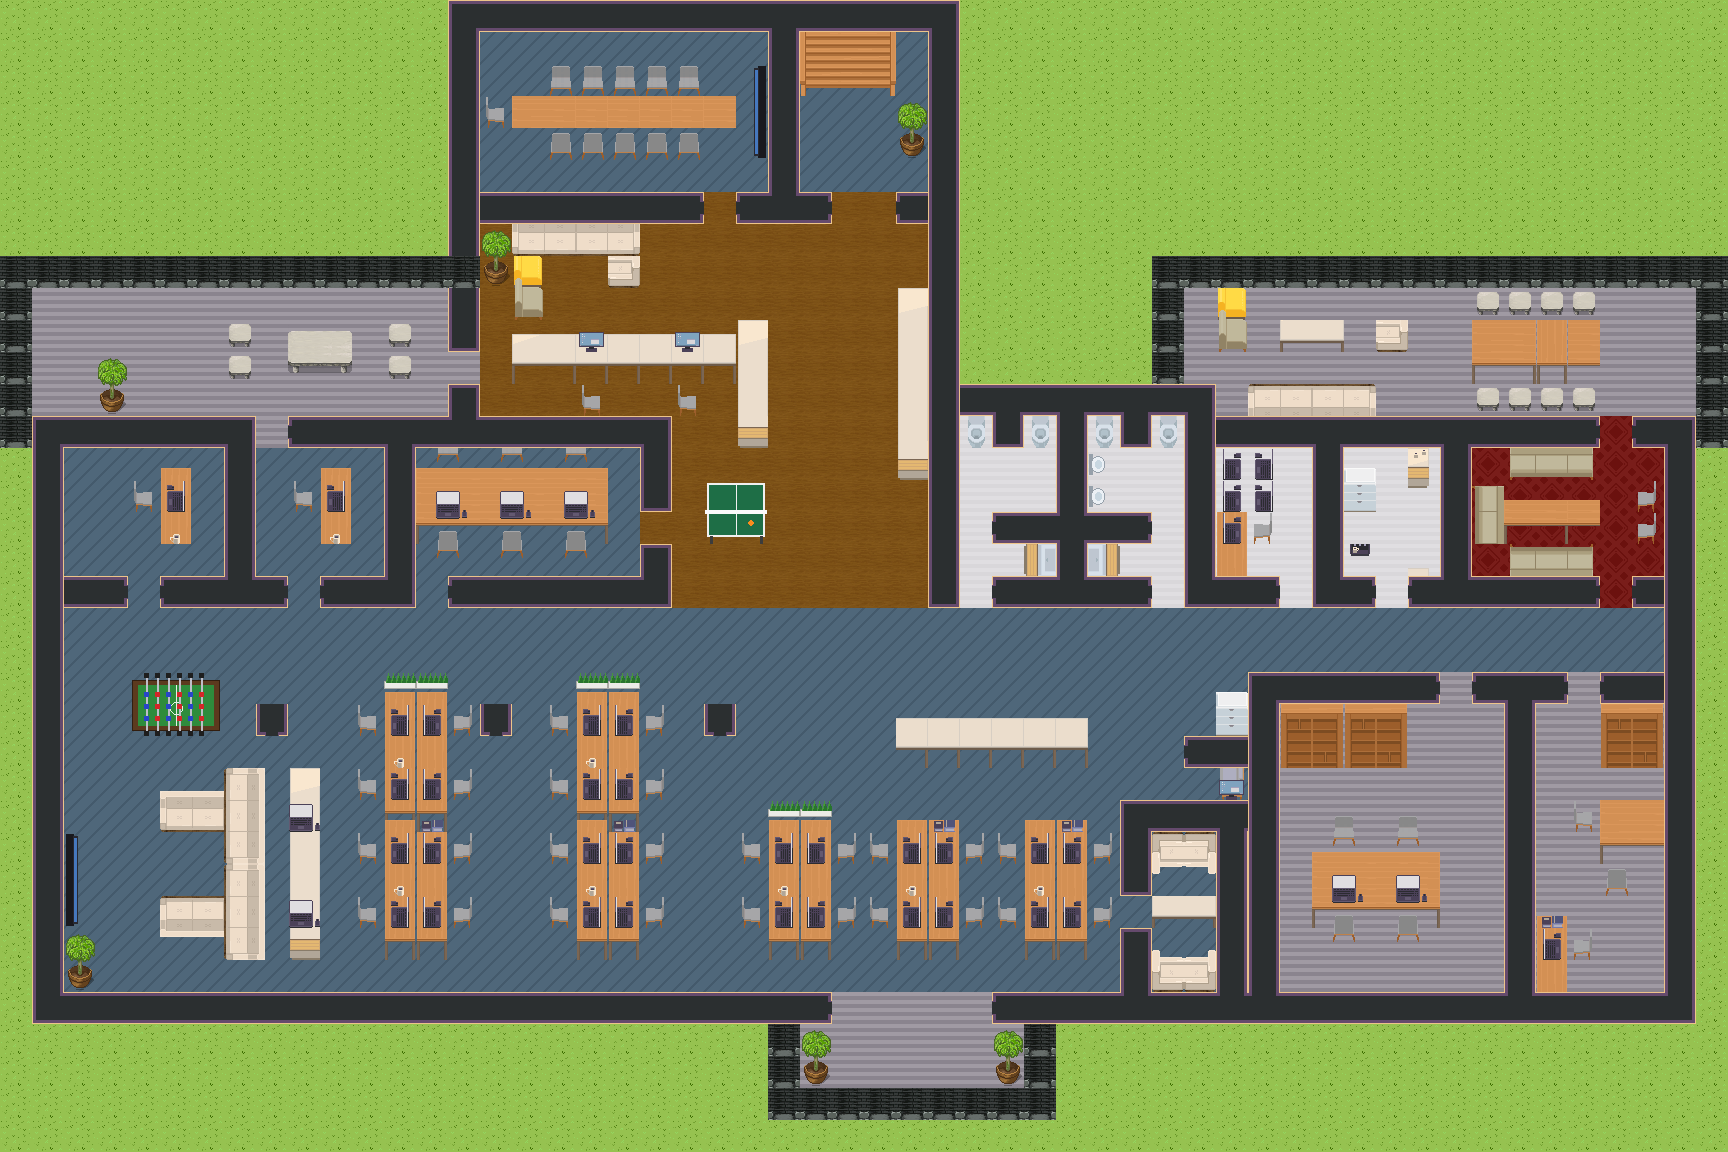
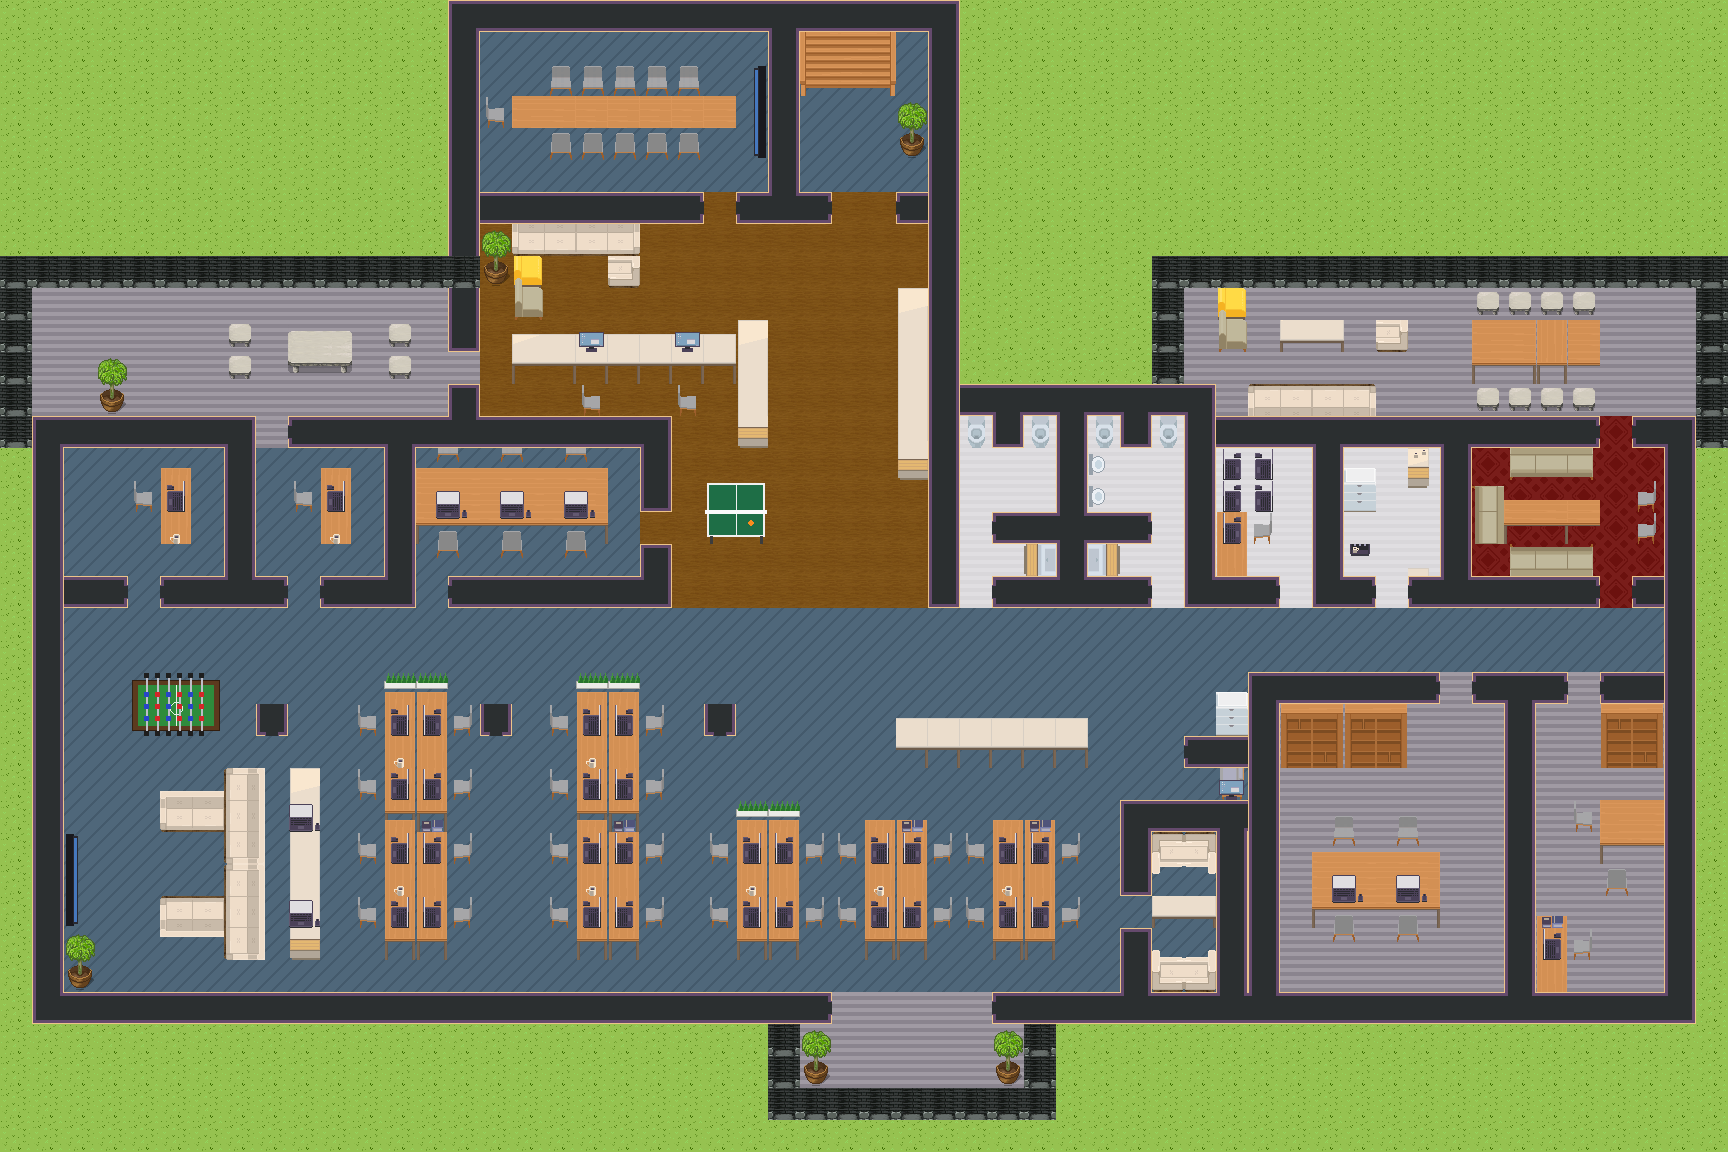
Shift right desk clusters left for space next to the small lounge

Changed region(s): [[0.4062, 0.6875, 0.6562, 0.8438]]

diff --git a/build.py b/build.py
@@ -239,9 +239,9 @@ put('furniture2', 51, 15, 1495); put('furniture2', 51, 16, 1495)
 # open space: planters + desk clusters as in Gather
 stamp(*DESK4, 11, 21); stamp(10, 4, 4, 4, 11, 26); stamp_onto(10, 3, 4, 11, 25)   # two blocks flush
 stamp(*DESK4, 17, 21); stamp(10, 4, 4, 4, 17, 26); stamp_onto(10, 3, 4, 17, 25)   # two blocks flush
-stamp(*DESK4, 23, 25)
-stamp(*DESK4, 27, 25); stamp(*DESK4, 31, 25)
-for x in (12, 13, 18, 19, 24, 25): put('above2', x, 21 if x < 20 else 25, CUSTOM + 15)   # planters flush on the desk edge, desk-wide
+stamp(*DESK4, 22, 25)
+stamp(*DESK4, 26, 25); stamp(*DESK4, 30, 25)
+for x in (12, 13, 18, 19, 23, 24): put('above2', x, 21 if x < 20 else 25, CUSTOM + 15)   # planters flush on the desk edge, desk-wide
 # white sideboard
 for x in range(28, 34): obj('furniture1', x, 22, 1598); obj('furniture1', x, 23, 1608)
 
